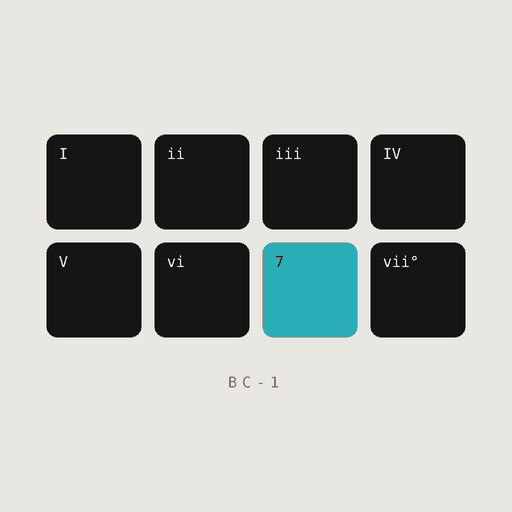
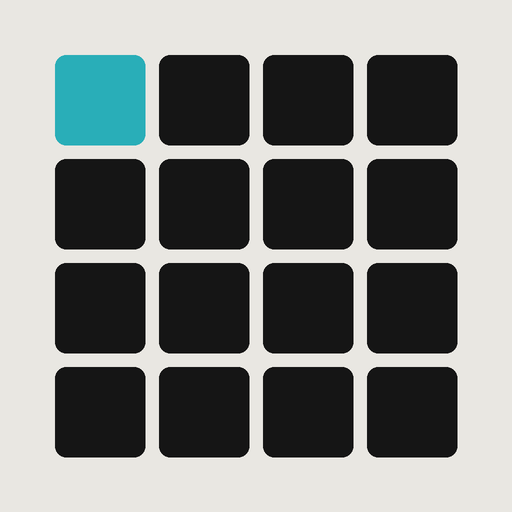
Length quantize, per_track profile, Brickchord gets the Lead and Drone banks, Bricklab artwork, site and README updated

diff --git a/docs/index.html b/docs/index.html
@@ -368,6 +368,22 @@ footer p { margin: 0; max-width: 56em; }
     </div>
   </section>
 
+  <section class="module" id="bricklab">
+    <div class="wrap">
+      <div class="label">The bigger one</div>
+      <h2><img src="bricklab-lockup.png" alt="Bricklab" style="height:2.2em;vertical-align:middle;border-radius:8px;margin-right:.4em">Bricklab is the groovebox</h2>
+      <p class="intro">Same engine, same buttons, built out into a pocket Digitakt: a looper you can layer from any mode, 16 patterns of 6 tracks, and a machine per track.</p>
+      <ul>
+        <li><strong>Looper.</strong> Press R2 to record a layer with the sound you are playing. It closes at the bar and loops; press again for the next layer. Six lamps in the header show the layers.</li>
+        <li><strong>Machines.</strong> Every track is a Chord, Lead, Bass, Drone or Sample machine (track 1 is Drums). Lead, Bass and Drone have their own banks with a Moog-style 4-pole ladder filter. Sample plays your WAVs pitched across the buttons, with start, end, reverse, loop, tune and a granular mode.</li>
+        <li><strong>Drums.</strong> A 16-step grid with five built-in kits (Classic, 808, 909, Lo-fi, Acoustic) and WAV kits of your own, swing, accents, ghosts, humanize, per-lane level and tune.</li>
+        <li><strong>Per-track effects.</strong> Each track has its own rack, live filter, level, pan and sends, and picks one of two FX buses, each with its own reverb and delay type.</li>
+        <li><strong>Sequencing.</strong> Step grid, pattern chaining, count-in, record quantize, metronome, and a drone that slides between degrees.</li>
+      </ul>
+      <p class="note">Bricklab installs next to Brickchord: copy the <code>brickchord</code> folder to <code>ports/bricklab</code>, add a file <code>edition.txt</code> containing <code>lab</code>, and copy <code>Bricklab.sh</code> into <code>ports</code>.</p>
+    </div>
+  </section>
+
   <section class="module" id="install">
     <div class="wrap">
       <div class="label">Install on KNULLI</div>

diff --git a/tools/bricklab_art.py b/tools/bricklab_art.py
@@ -1,0 +1,69 @@
+# Renders Bricklab's static artwork from the mark: the KNULLI Ports images
+# (bricklab-image.png 512x512, bricklab-marquee.png 1000x220) and the site
+# lockup. Usage: python3 tools/bricklab_art.py <Inter variable font> <out folder>
+import os
+import sys
+
+from PIL import Image, ImageDraw, ImageFont
+
+FONT, OUT = sys.argv[1], sys.argv[2]
+NAVY = (22, 36, 76)
+CREAM = (230, 229, 224)
+WORD = (231, 222, 208)
+TEAL = (41, 174, 184)
+DARK = (21, 21, 21)
+PAPER = (233, 231, 226)
+SS = 2
+
+
+def font(px):
+    f = ImageFont.truetype(FONT, px)
+    try:
+        f.set_variation_by_axes([32, 700])
+    except Exception:
+        pass
+    return f
+
+
+def grid(d, x0, y0, k, gap, key, lit, rad):
+    for i in range(16):
+        r, c = divmod(i, 4)
+        x, y = x0 + c * (k + gap), y0 + r * (k + gap)
+        d.rounded_rectangle([x, y, x + k, y + k], radius=rad, fill=lit if i == 0 else key)
+
+
+def render(w, h, bg, key, lit, word, layout):
+    im = Image.new("RGBA", (w * SS, h * SS), bg)
+    d = ImageDraw.Draw(im)
+    if layout == "square":                      # mark only, centred
+        k, gap = 90 * SS, 14 * SS
+        g = 4 * k + 3 * gap
+        grid(d, (w * SS - g) // 2, (h * SS - g) // 2, k, gap, key, lit, 11 * SS)
+    elif layout == "marquee":                   # mark left, wordmark right
+        k, gap = 40 * SS, 6 * SS
+        g = 4 * k + 3 * gap
+        grid(d, 30 * SS, (h * SS - g) // 2, k, gap, key, lit, 5 * SS)
+        f = font(112 * SS)
+        bb = f.getbbox("bricklab")
+        d.text((30 * SS + g + 40 * SS, (h * SS - (bb[3] - bb[1])) // 2 - bb[1]), "bricklab", font=f, fill=word)
+    else:                                       # lockup: mark above wordmark
+        k, gap = 70 * SS, 10 * SS
+        g = 4 * k + 3 * gap
+        grid(d, (w * SS - g) // 2, 40 * SS, k, gap, key, lit, 9 * SS)
+        f = font(96 * SS)
+        bb = f.getbbox("bricklab")
+        d.text(((w * SS - (bb[2] - bb[0])) // 2 - bb[0], 40 * SS + g + 30 * SS - bb[1]), "bricklab", font=f, fill=word)
+    im = im.resize((w, h), Image.LANCZOS)
+    return im if len(bg) == 4 else im.convert("RGB")
+
+
+def main():
+    os.makedirs(OUT, exist_ok=True)
+    render(512, 512, PAPER, DARK, TEAL, DARK, "square").save(os.path.join(OUT, "bricklab-image.png"))
+    render(1000, 220, (0, 0, 0, 0), CREAM, TEAL, PAPER, "marquee").save(os.path.join(OUT, "bricklab-marquee.png"))
+    render(640, 500, NAVY, CREAM, TEAL, WORD, "lockup").save(os.path.join(OUT, "bricklab-lockup.png"))
+    print("wrote 3 files to", OUT)
+
+
+if __name__ == "__main__":
+    main()

diff --git a/brickchord/engine.py b/brickchord/engine.py
@@ -1009,6 +1009,9 @@ class Engine:
         ev, v.rec = v.rec, None
         L = self.pats[self.lp_rec_p].len
         d = max(0.05, (at - v.start) / self._step_len())
+        if self.rec_quant:                                    # length quantize: end on a step too
+            q = float(self.rec_quant)
+            d = max(q, round(d / q) * q)
         if ev[5] is None or d < ev[5]:
             ev[5] = round(min(float(L), d), 3)
 
@@ -1016,7 +1019,11 @@ class Engine:
         ev, self.lp_lead = self.lp_lead, None
         if ev is not None and ev[5] is None and self.cur == self.lp_rec_p:
             L = self.pats[self.cur].len
-            ev[5] = round(max(0.1, (self._ppos(at) - ev[0]) % L), 3)
+            d = max(0.1, (self._ppos(at) - ev[0]) % L)
+            if self.rec_quant:
+                q = float(self.rec_quant)
+                d = max(q, round(d / q) * q)
+            ev[5] = round(min(float(L), d), 3)
 
     def _lp_rec_stop(self, at):
         for v in self.lp_open:
@@ -1741,6 +1748,7 @@ class Engine:
         # The selected track uses the live sends (Settings reverb/delay + right stick).
         selkey = (self.cur, self.sel) if self.route else None
         self._tails |= set(tb)
+        self._ntracks = sum(1 for key in self._tails if tb.get(key) is not None)   # chains actually running
         for key in list(self._tails):
             tr = self.pats[key[0]].tracks[key[1]]
             b = tb.get(key)
@@ -1791,8 +1799,9 @@ class Engine:
         self.t += N
         self.active = frozenset(v.midi for v in self.voices if v.rel_at is None and v.midi is not None)
         el = time.perf_counter() - t0
+        nt = max(1, getattr(self, "_ntracks", 0))
         st = (("cmds+clock", t1 - t0), ("voices", t2 - t1), ("live fx", t3 - t2), ("tracks", t4 - t3),
-              ("delay", t5 - t4), ("reverb", t6 - t5), ("total", el))
+              ("per_track", (t4 - t3) / nt), ("delay", t5 - t4), ("reverb", t6 - t5), ("total", el))
         pa = getattr(self, "_pacc", None)
         self._pacc = [(k, v * 1000 if pa is None else pa[i][1] * 0.97 + v * 1000 * 0.03) for i, (k, v) in enumerate(st)]
         self.prof = [(k, round(v, 2)) for k, v in self._pacc]

diff --git a/brickchord/main.py b/brickchord/main.py
@@ -278,7 +278,7 @@ class App(modes.ModesMixin):
         self.key = s.get("key", 0)
         self.scale = s.get("scale", "Major") if s.get("scale") in SCALES else "Major"
         self.machine = "chord"                      # the selected track's machine (Bricklab); bank follows it
-        self.bank = synth.PATCHES
+        self.bank = synth.PATCHES if edition.LAB else synth.PATCHES + synth.LEAD_PATCHES + synth.DRONE_PATCHES
         self.patch = clamp(s.get("patch", 0), 0, len(self.bank) - 1)
         self.tone = s.get("tone", 0.0)
         self.res = s.get("res", 0.0)

diff --git a/brickchord/synth.py b/brickchord/synth.py
@@ -488,7 +488,7 @@ def render_note(midi, p, tone=0.0, res_add=0.0, attack_len=None, loop_len=2.0, x
     q = max(0.5, p["res"] + res_add)
 
     tb = np.arange(nb) / brate
-    duty = 0.5 + 0.4 * p["pwm"] * np.sin(2 * np.pi * tb * (2.0 / loop_len))  # LFO fits loop
+    duty = 0.5 + 0.4 * p.get("pwm", 0.0) * np.sin(2 * np.pi * tb * (2.0 / loop_len))  # LFO fits loop
     duty = np.clip(duty, 0.05, 0.95)
 
     out = np.zeros((n, 2), np.float32)

diff --git a/README.md b/README.md
@@ -28,7 +28,14 @@ and everything plays on a single sample-accurate clock with a built-in drum mach
 - **Instant sound loading** from a disk cache, with an optional pre-rendered factory pack
 
 ## Bricklab
-Bricklab is Brickchord plus song mode: 16 patterns of 6 recorded tracks, each track with its own sound and effects, a step grid, a song page that chains patterns, and a count-in. It installs next to Brickchord: copy the `brickchord` folder to `ports/bricklab`, add a file `edition.txt` containing `lab`, and copy `Bricklab.sh` into `ports`. It shares Brickchord's sound cache when both are installed.
+Bricklab is the groovebox built on the same engine. It adds:
+- **A looper you can layer from any mode.** R2 records a layer with the sound you are playing; it closes at the bar and loops. R2 again arms the next layer. Six lamps in the header show the layers; SELECT+B undoes the last one.
+- **16 patterns of 6 tracks**, each track a **machine**: Chord, Lead, Bass, Drone or Sample (track 1 is Drums). Lead, Bass and Drone have their own sound banks with a Moog-style 4-pole ladder filter. Sample plays WAVs from `samples/` pitched across the buttons, with start, end, reverse, loop, tune and a granular mode (Settings > Sample).
+- **A drum machine** on track 1: 16-step grid, five built-in kits plus your own WAV kits, swing, accents, ghosts, humanize, per-lane level and tune (Settings > Drums).
+- **Per-track effects**: every track has its own rack, live filter, level, pan, sends and one of two FX buses, each bus with its own reverb and delay type (Settings > FX). The track page is Effects on the mode wheel or SONG > X.
+- **Sequencing**: step grid, song page that chains patterns, count-in, record and length quantize, a metronome, and Drone slide.
+
+It installs next to Brickchord: copy the `brickchord` folder to `ports/bricklab`, add a file `edition.txt` containing `lab`, and copy `Bricklab.sh` into `ports`. It shares Brickchord's sound cache when both are installed.
 
 ## Install (KNULLI)
 1. Download the latest zip from **[Releases](https://github.com/michaeltietjen/brickchord/releases)** (it bundles the ARM64 NumPy that Brickchord needs).

diff --git a/CHANGELOG.md b/CHANGELOG.md
@@ -1,6 +1,7 @@
 # Changelog
 
 ## Unreleased: modes, engines, effects rack, Bricklab
+- Length quantize: with Rec quantize on, a held note's length snaps to the grid too, so recorded leads and bass end on a step. The profile line now has a per_track cost. Brickchord's sound list grows to 41: the 23 originals plus the Lead and Drone banks. New Bricklab artwork for the site and the KNULLI menu (tools/bricklab_art.py), and the site and README describe Bricklab as it is now.
 - Sample page (Bricklab): with a Sample track selected, Settings opens on a Sample page: Start, End, Reverse, Loop, Tune, and a Grain section (Grain on/off, Grain size, Density, Position, Spray, Pitch spray). Grain renders a granular cloud into each note offline, so a one-second vocal becomes a pad or a texture that costs the same to play as a chord note. Change a setting and the next note has it.
 - Drone slide (both editions): Settings > Chords > Drone slide (Off, 0.5 s, 1 s, 2 s, 4 s; default 1 s). With it on, tapping a new degree slides every drone voice to the new pitch instead of restriking, the upper voices arriving a little after the root. Adding or removing the 3rd fades voices in and out. Off gives the old restrike.
 - Machines (Bricklab). Every track is a machine: Chord, Lead, Bass, Drone or Sample (track 1 is Drums). Pick it on the track page under SOUND > Machine; the Sound row then cycles that machine's own bank, and playing the track opens the right mode (Lead for Lead, Bass and Sample, Drone for Drone). A fresh looper layer takes whatever machine you are playing.
